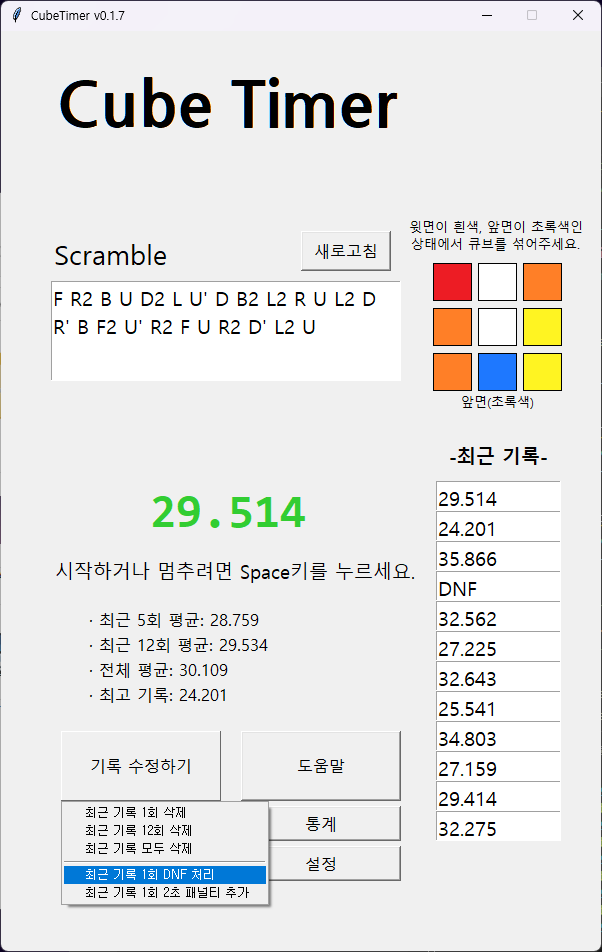
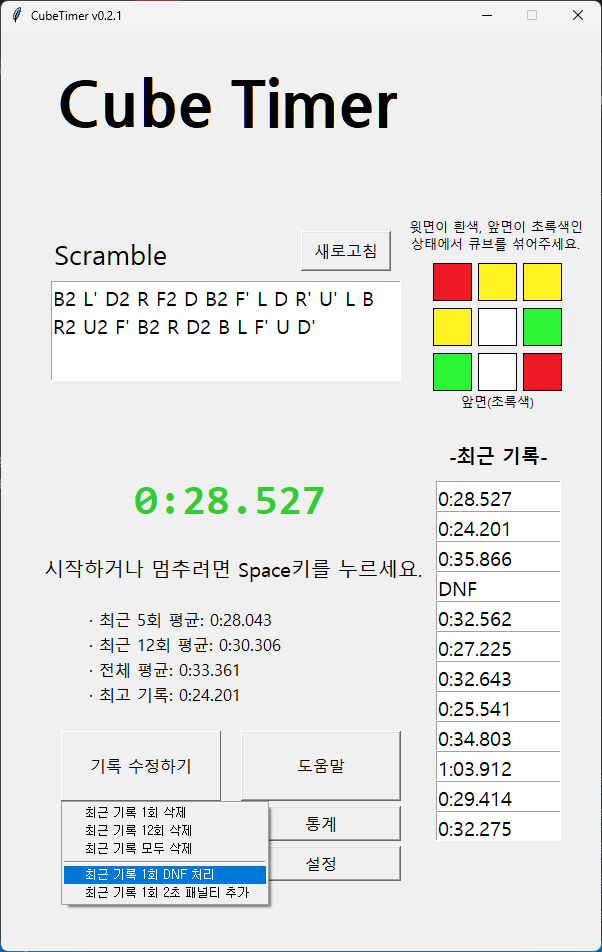
CubeTimer_v0.2.1

diff --git a/Cube_Timer.py b/Cube_Timer.py
@@ -196,7 +196,7 @@ def load_record():
                 records.append('')
         
         for (i, j) in enumerate(records):
-            if j.rstrip() == '0':
+            if j.rstrip() == '0:00.000':
                 records[i] = 'DNF'
         
         rec1.insert(tk.INSERT, records[0])
